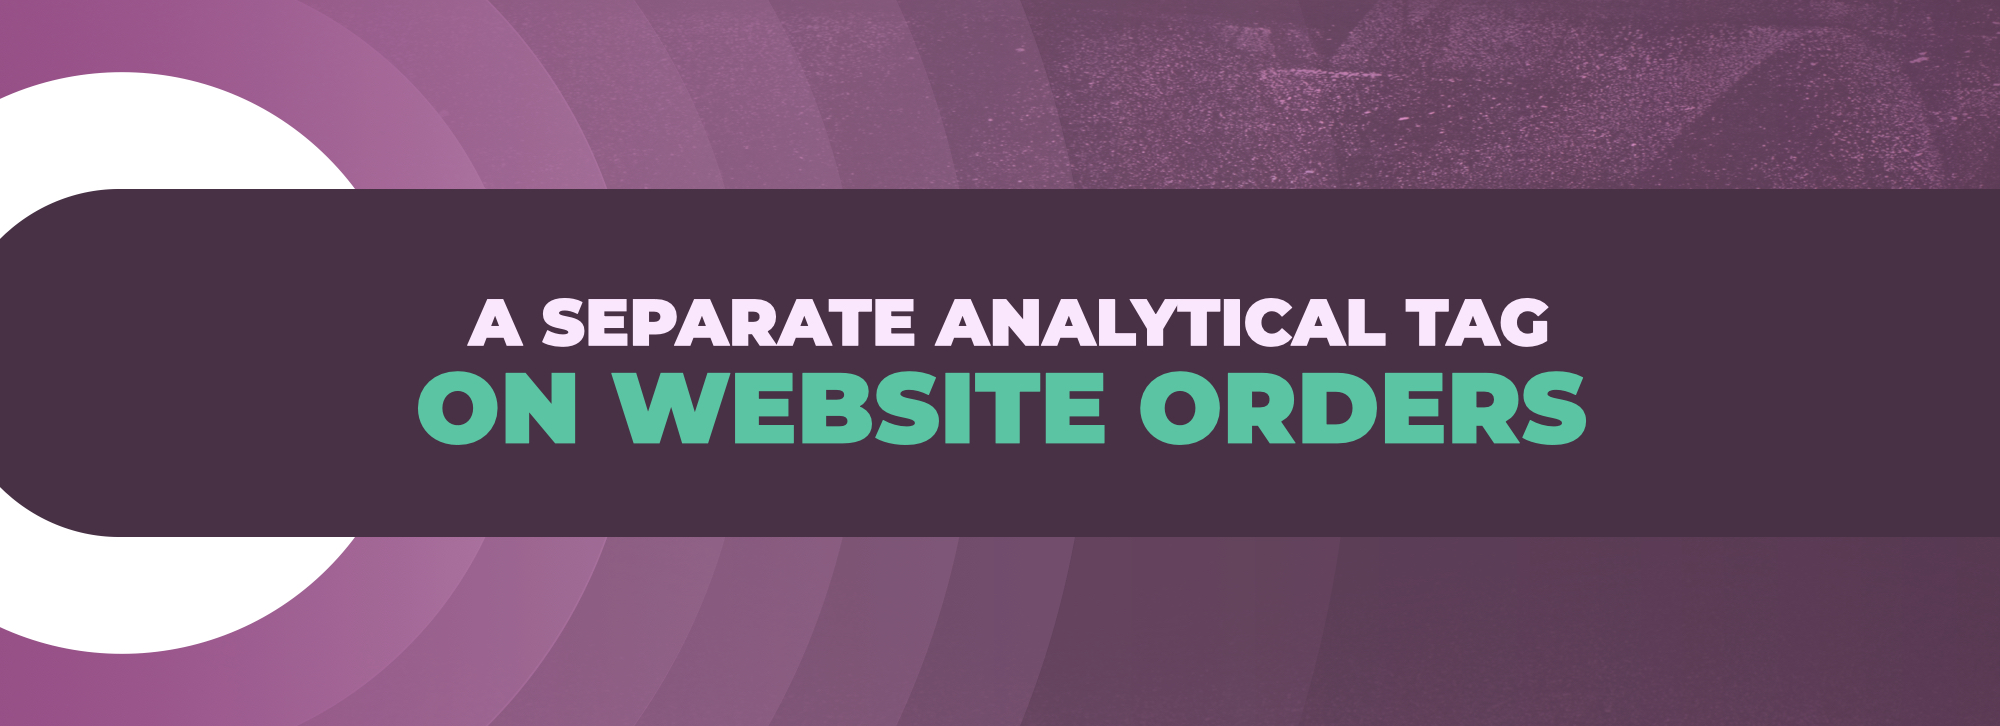
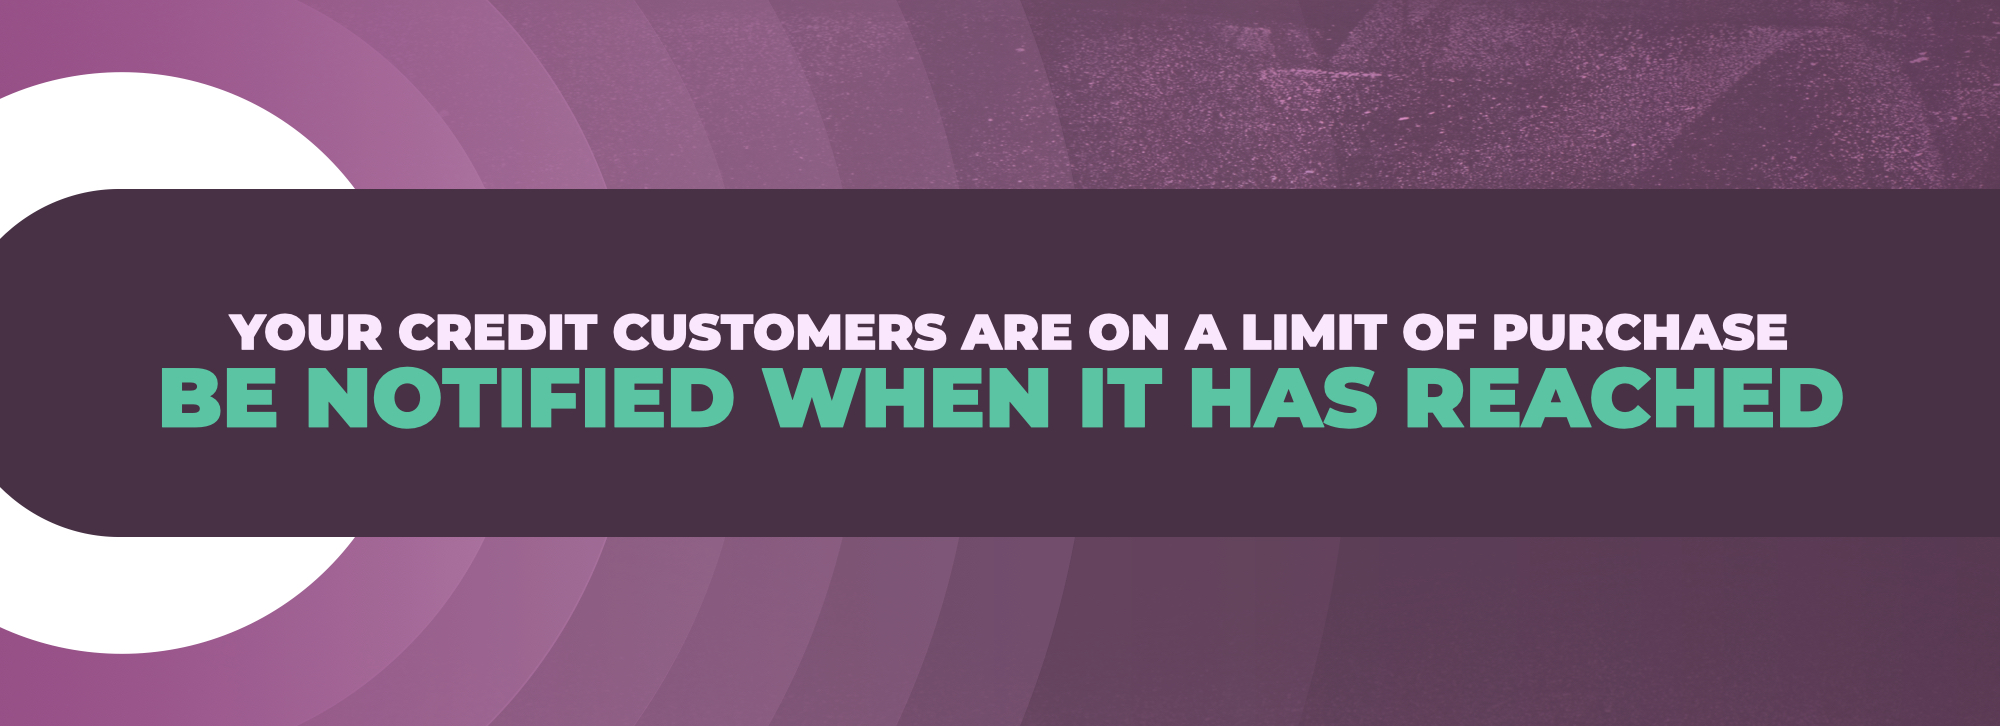
rsrwer

Changed region(s): [[0.062, 0.3939, 0.93, 0.6364]]

diff --git a/7d_pos_test/static/description/index.html b/7d_pos_test/static/description/index.html
@@ -84,22 +84,23 @@
      <div
           style="background-color: #f6edf3; border-radius: 8px; padding: 20px; box-shadow: 0px 4px 8px rgba(0, 0, 0, 0.1); margin: 20px;">
           <img src="images/features-1.png" style="width: 90px; padding: 10px 0;" />
-          <h2 style="font-size: 20px; margin-bottom: 10px;"> Allows you to maintain the Website Orders' Accounting</h2>
+          <h2 style="font-size: 20px; margin-bottom: 10px;"> Keeps Your Credit Sales under a Watch</h2>
           <!-- <p>text1111111.</p> -->
      </div>
      <div
           style="background-color: #f6edf3; border-radius: 8px; padding: 20px; box-shadow: 0px 4px 8px rgba(0, 0, 0, 0.1); margin: 20px;">
           <img src="images/features-2.png" style="width: 90px;padding: 10px 0;" />
-          <h2 style="font-size: 20px; margin-bottom: 10px;"> Helps in a separate Journal Entry posting
+          <h2 style="font-size: 20px; margin-bottom: 10px;"> Ensures your sales team does not go over the management's
+               set credit limit for credit customers
           </h2>
           <!-- <p>text22222.</p> -->
      </div>
      <div
           style=" grid-column: 1/3 ;background-color: #f6edf3; border-radius: 8px; padding: 20px; box-shadow: 0px 4px 8px rgba(0, 0, 0, 0.1); margin: 20px;">
           <img src="images/features-3.png" style="width: 90px;padding: 10px 0;" />
-          <h2 style="font-size: 20px; margin-bottom: 10px;"> Helps in managing a separate sales budget for E-commerce
-               operations</h2>
-          <!-- <p>text22222.</p> -->
+          <h2 style="font-size: 20px; margin-bottom: 10px;"> Helps in getting your credit customers to clear off
+               previous dues in order to be within the limit
+          </h2>
      </div>
 </section>
 <!-- ------------------------------------------------------------------------------------------ -->
@@ -124,7 +125,6 @@ font-family:sans-serif;">
           <!-- <p>text22222.</p> -->
      </div>
 </section>
-<!-- ------------------------------------------------------------------------------------------ -->
 
 <!----------------------- SUGGESTED MODULES Section ------------------------------------------------>
 <!-- <div
